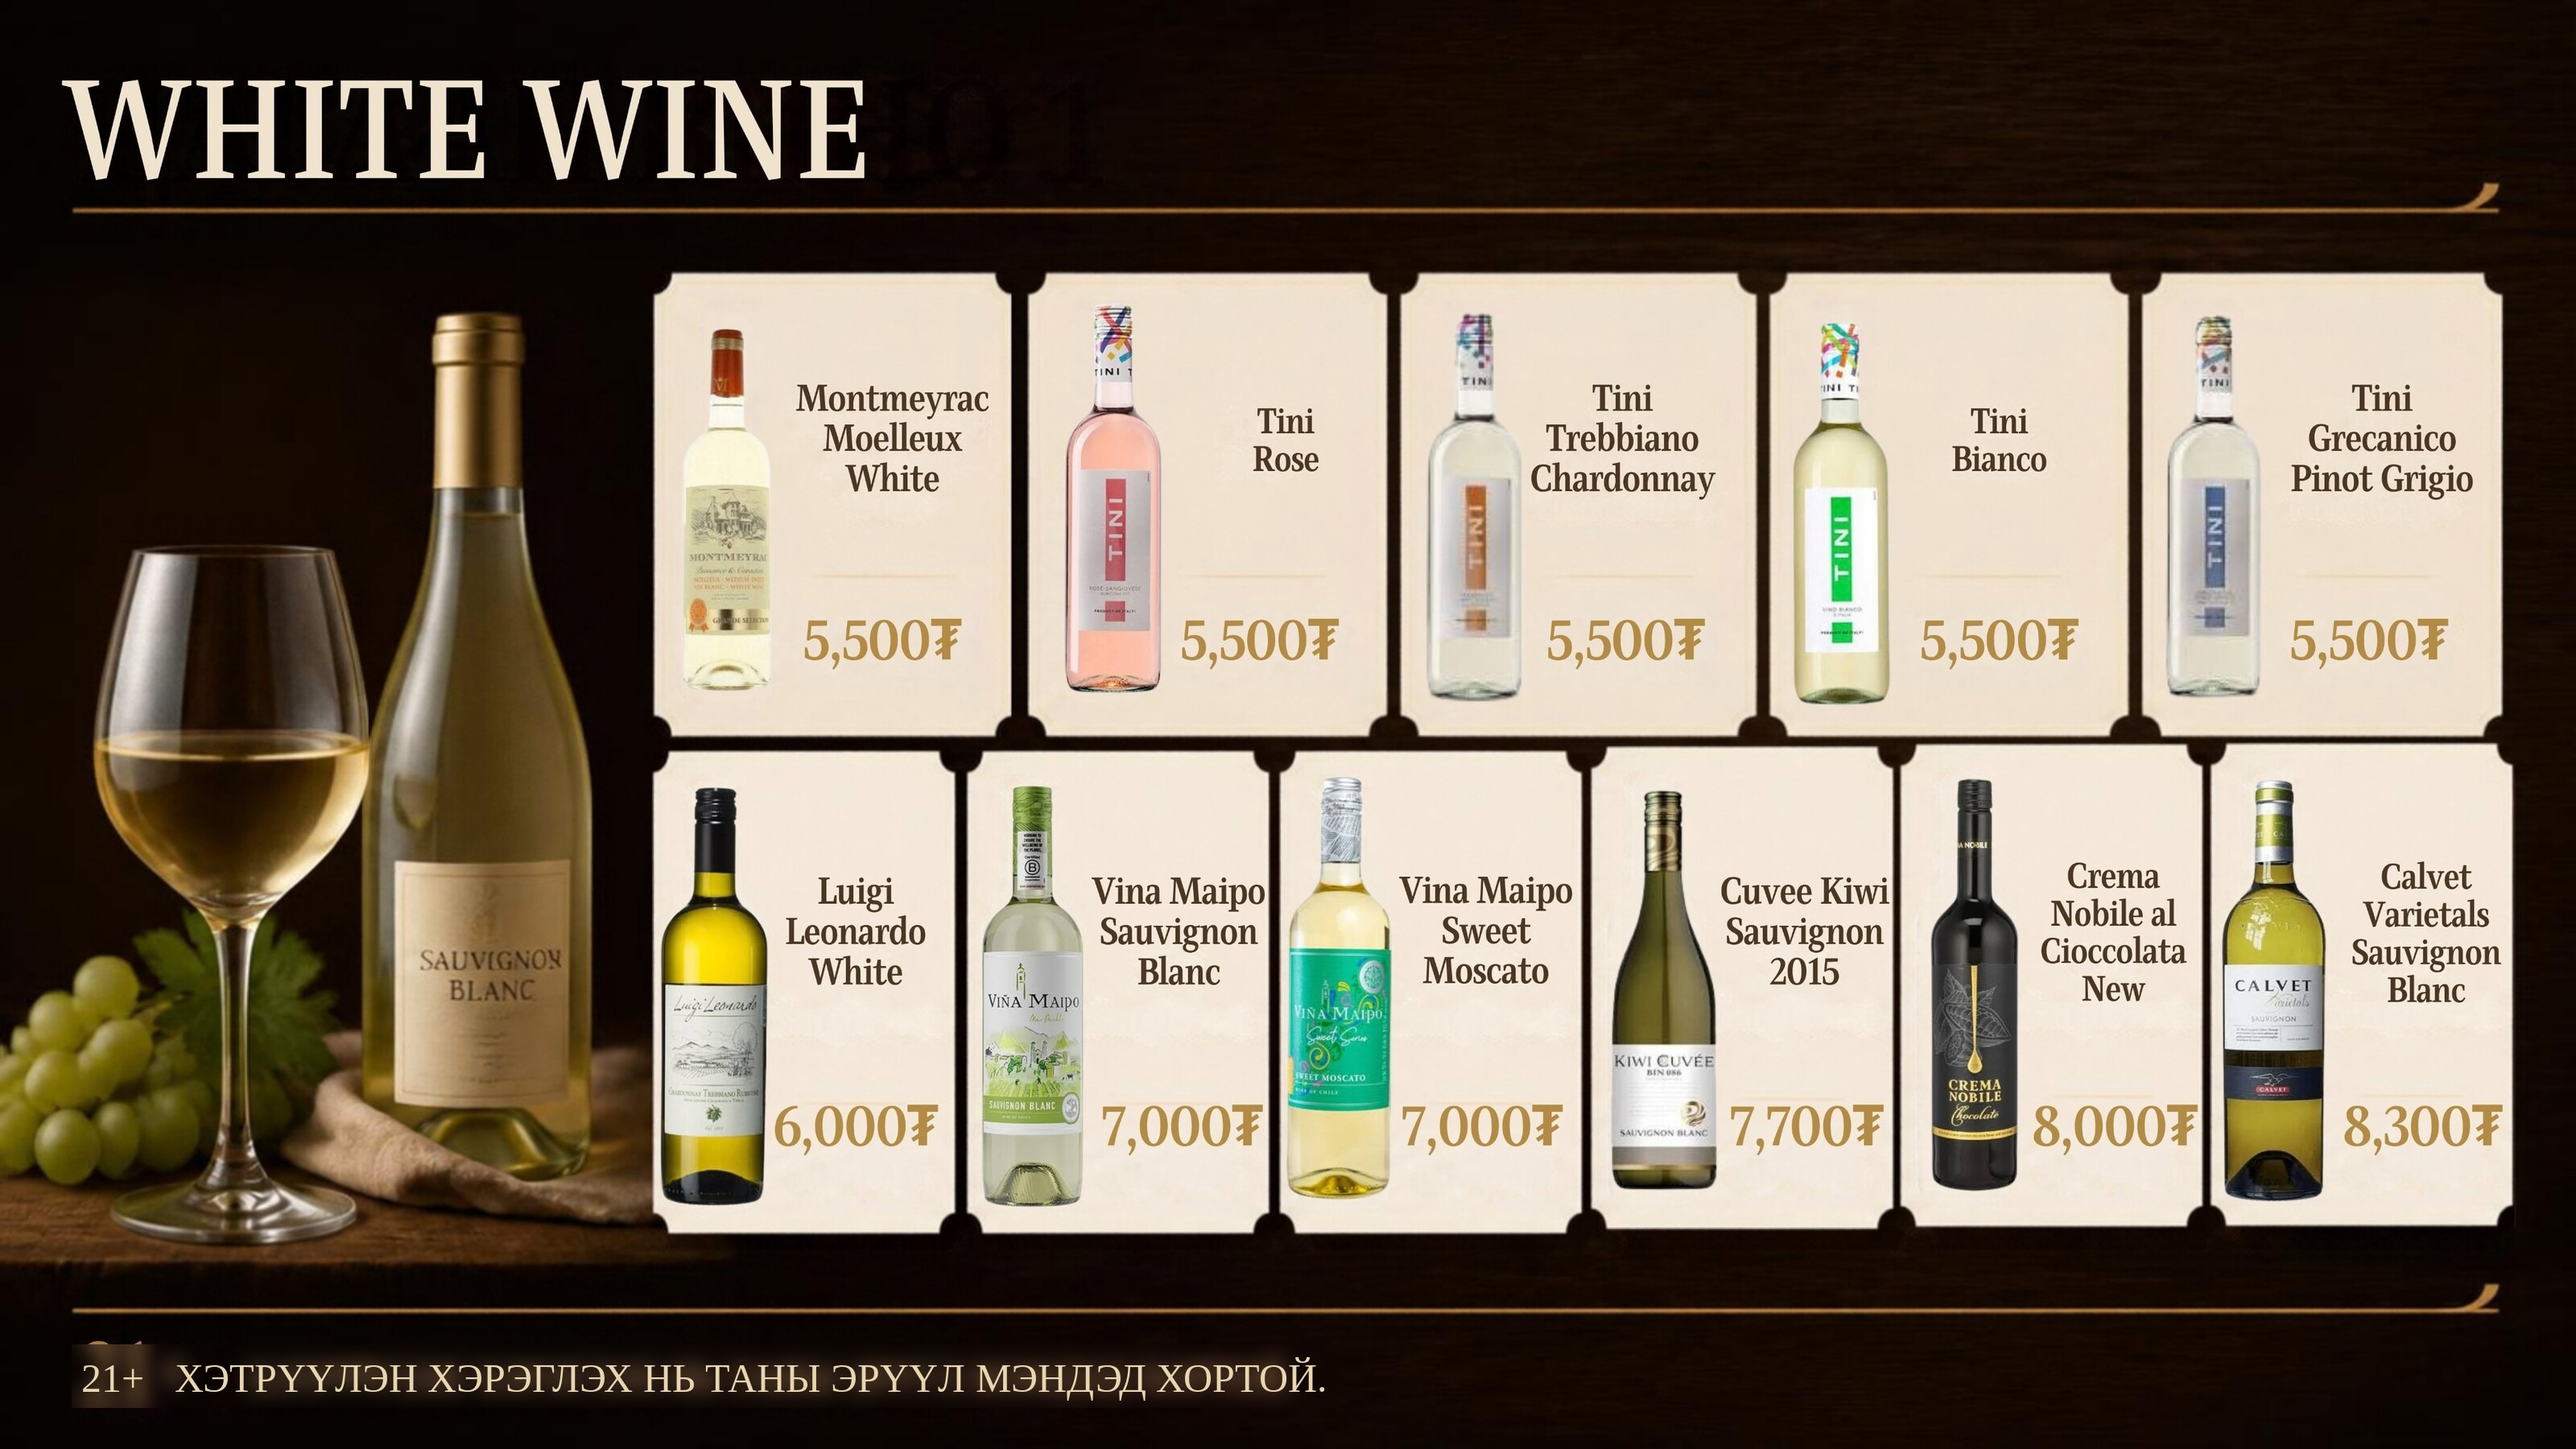
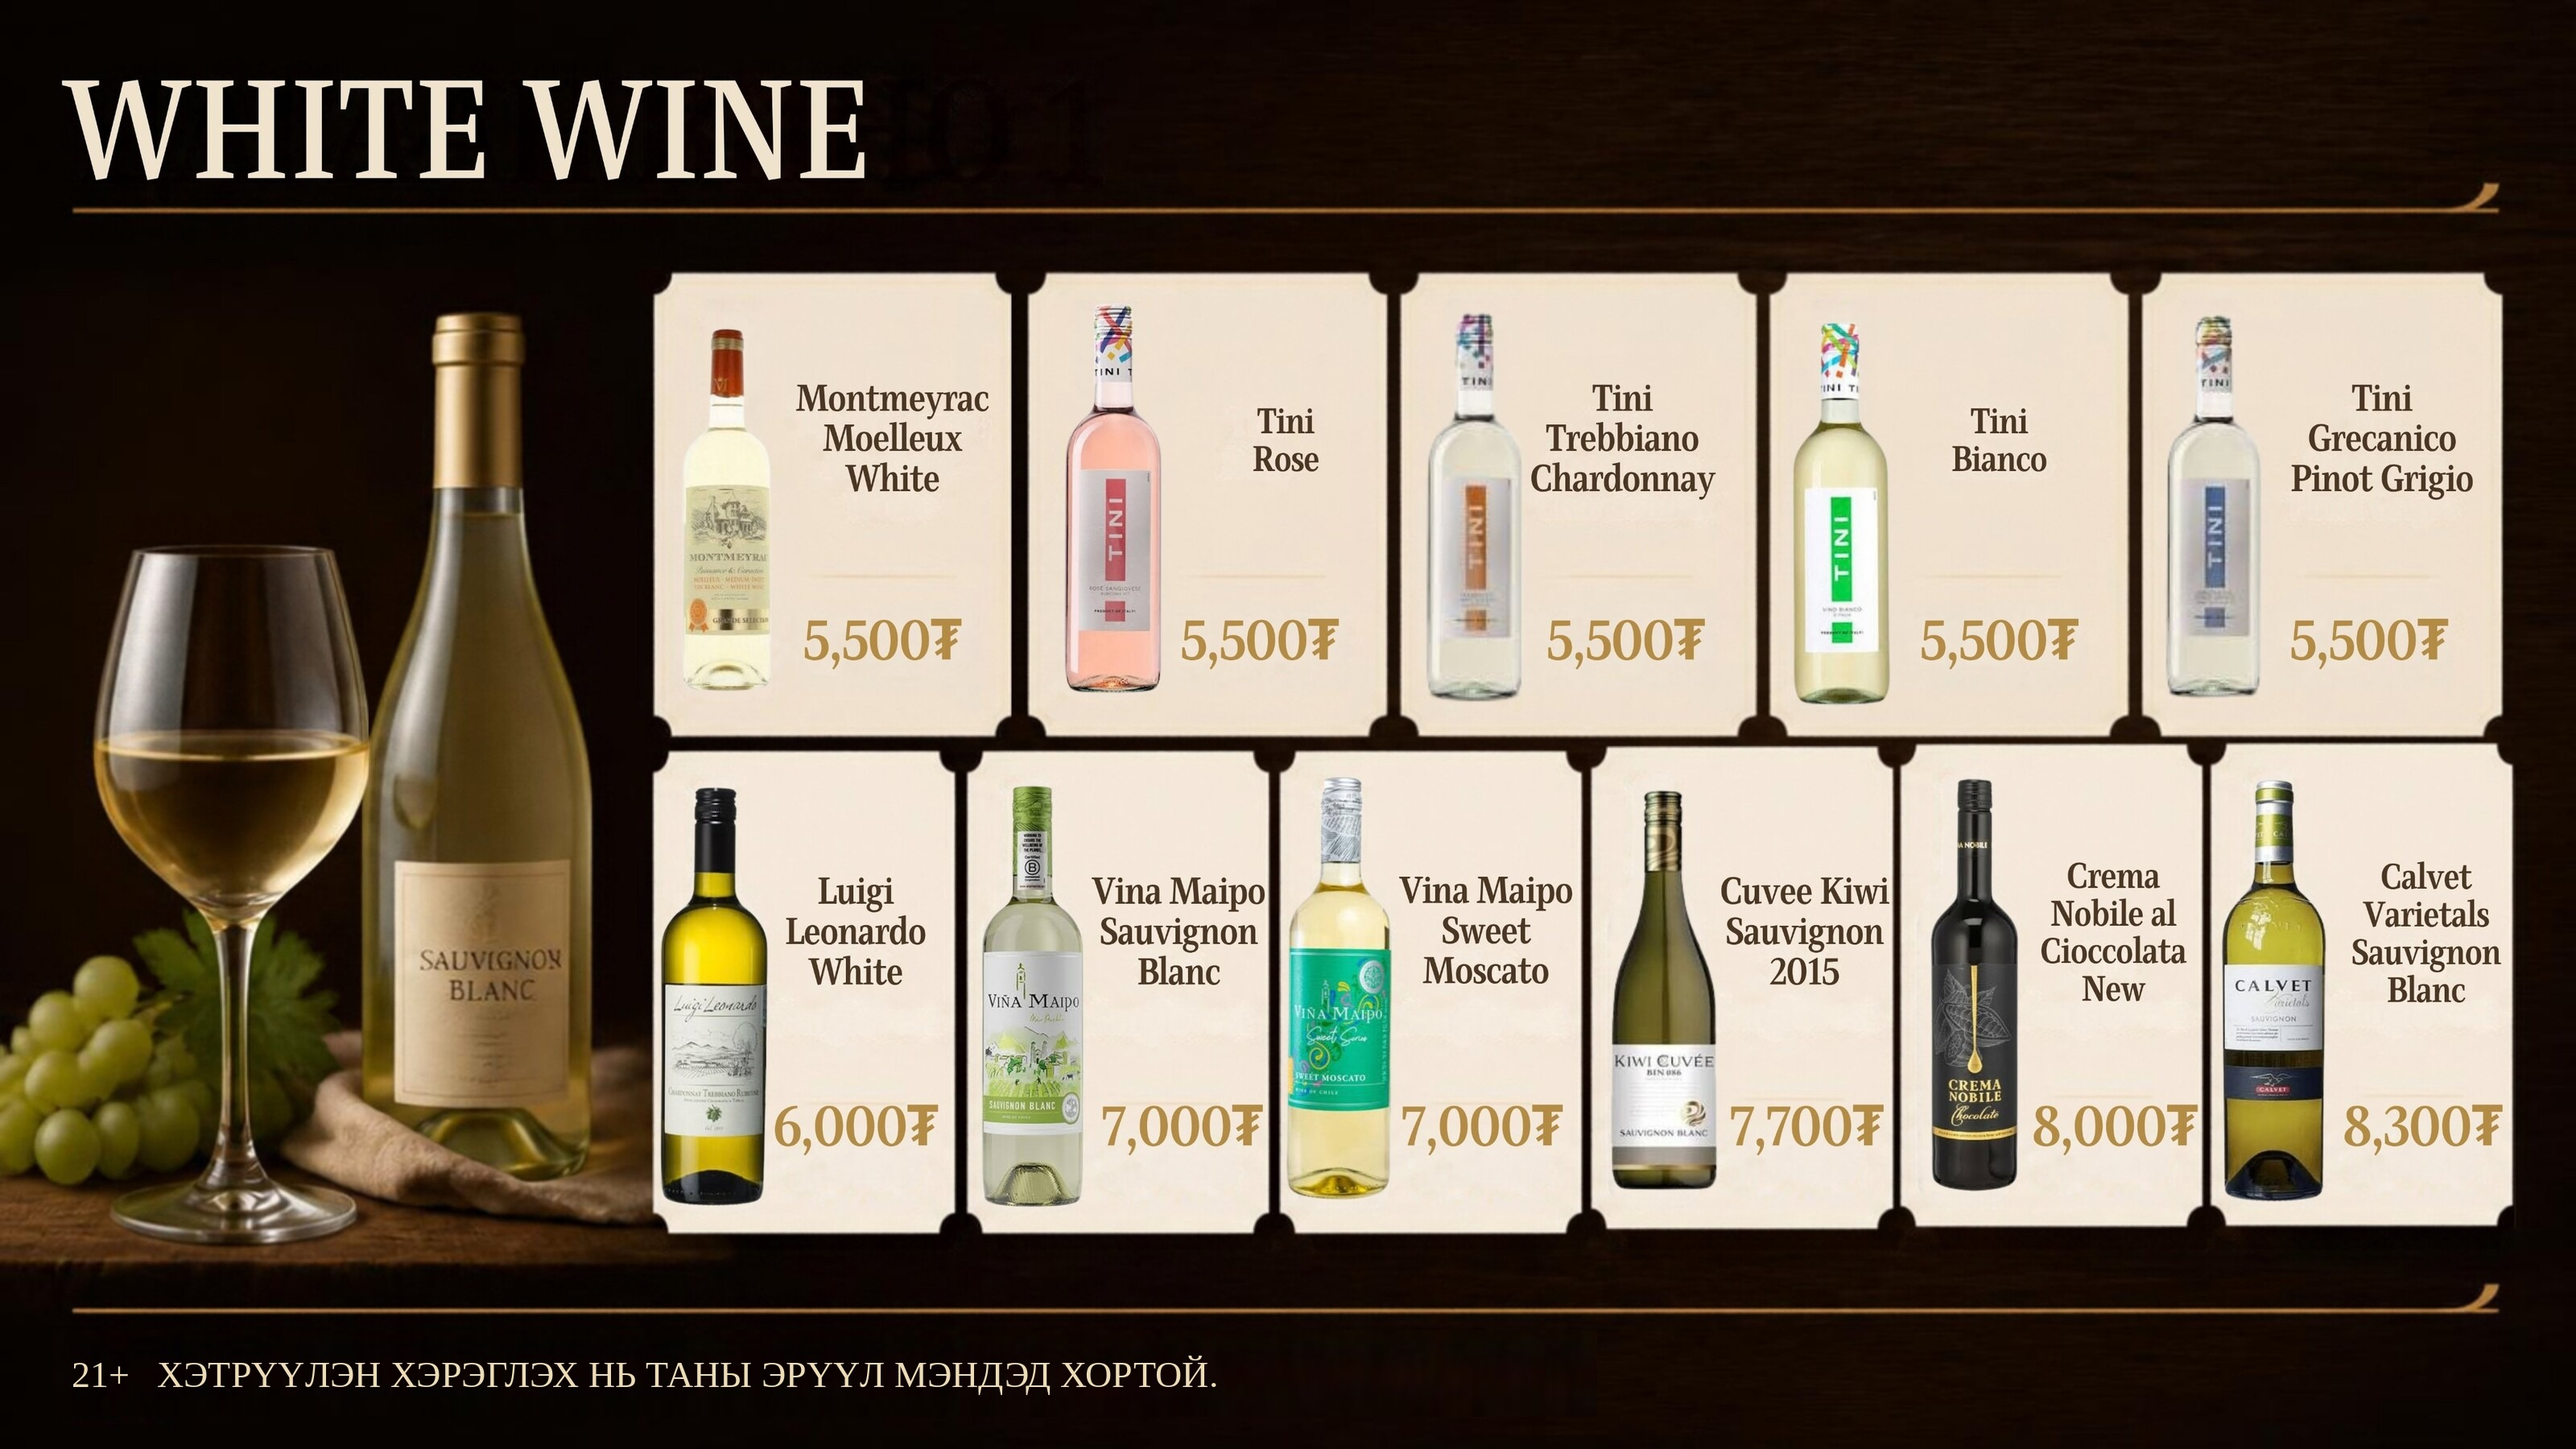
Remove the old warning line showing under the new text

Changed region(s): [[0.0312, 0.9022, 0.5312, 0.9956]]

diff --git a/menu.js b/menu.js
@@ -37,7 +37,7 @@ let drag = null;
 
 function pageHtml(board, extra) {
   const hits = board.spots.map(s => `<button class="hit" style="left:${s.l}%;top:${s.t}%;width:${s.w}%;height:${s.h}%" data-id="${s.id}" aria-label="${wines[s.id].name}"></button>`).join("");
-  return `<div class="page ${extra || ""}">${hits}<img src="${board.img}?v=17" alt=""><div class="back"></div><div class="shade"></div></div>`;
+  return `<div class="page ${extra || ""}">${hits}<img src="${board.img}?v=18" alt=""><div class="back"></div><div class="shade"></div></div>`;
 }
 
 function render(incoming) {

diff --git a/index.html b/index.html
@@ -75,7 +75,7 @@
     border: 0; background: #1a120c; color: var(--cream); font-size: 18px; cursor: pointer;
   }
   .dots {
-    position: absolute; left: 0; right: 0; bottom: 10px; z-index: 6;
+    position: absolute; left: 0; right: 0; bottom: 3px; z-index: 6;
     display: flex; justify-content: center; gap: 7px; pointer-events: auto;
   }
   .dots button {
